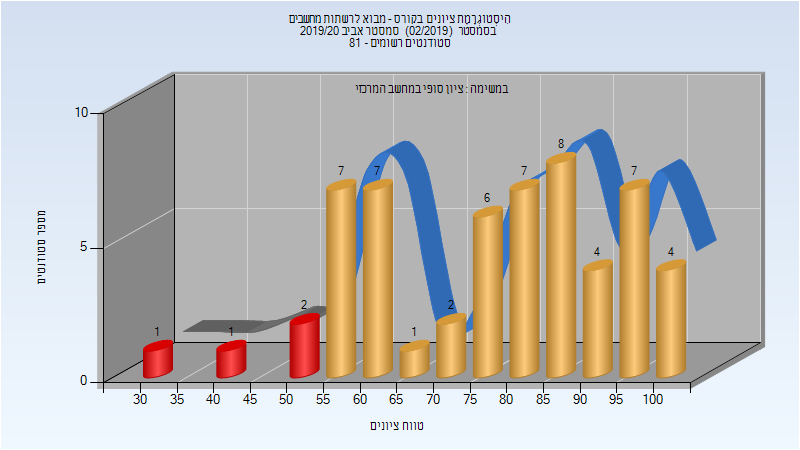
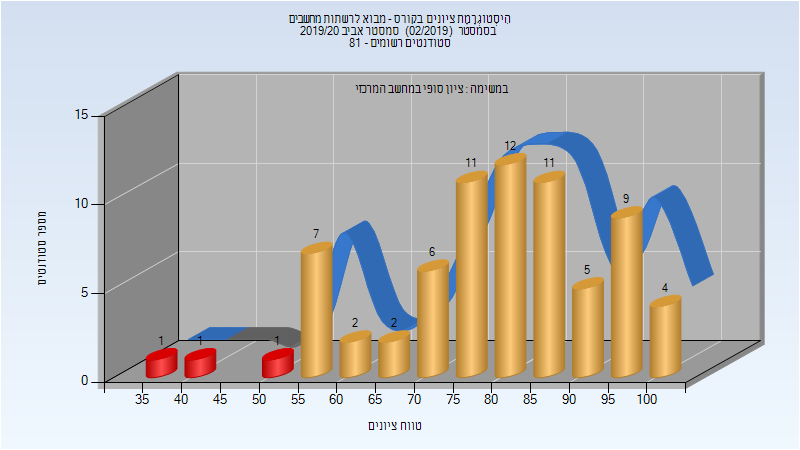
Deploy michael-maltsev/technion-histograms to github.com/michael-maltsev/technion-histograms.git:gh-pages

diff --git a/236343/index.html b/236343/index.html
@@ -299,13 +299,13 @@
 </thead>
 <tbody>
 <tr>
-<td>169</td>
-<td>128/41</td>
-<td>76</td>
-<td>6</td>
+<td>213</td>
+<td>178/35</td>
+<td>84</td>
+<td>32</td>
 <td>100</td>
-<td>71.593</td>
-<td>74</td>
+<td>71.152</td>
+<td>71</td>
 </tr>
 </tbody>
 </table>

diff --git a/236334/index.html b/236334/index.html
@@ -243,13 +243,13 @@
 </thead>
 <tbody>
 <tr>
-<td>57</td>
-<td>53/4</td>
-<td>93</td>
-<td>30</td>
+<td>72</td>
+<td>69/3</td>
+<td>96</td>
+<td>36</td>
 <td>100</td>
-<td>77.123</td>
-<td>80</td>
+<td>79.75</td>
+<td>82</td>
 </tr>
 </tbody>
 </table>

diff --git a/236343/README.md b/236343/README.md
@@ -98,5 +98,5 @@
 
 | סטודנטים | עברו/נכשלו | אחוז עוברים | ציון מינימלי | ציון מקסימלי | ממוצע | חציון |
 | ---- | ---- | ---- | ---- | ---- | ---- | ---- |
-| 169 | 128/41 | 76 | 6 | 100 | 71.593 | 74 |
+| 213 | 178/35 | 84 | 32 | 100 | 71.152 | 71 |
 

diff --git a/236334/README.md b/236334/README.md
@@ -78,5 +78,5 @@
 
 | סטודנטים | עברו/נכשלו | אחוז עוברים | ציון מינימלי | ציון מקסימלי | ממוצע | חציון |
 | ---- | ---- | ---- | ---- | ---- | ---- | ---- |
-| 57 | 53/4 | 93 | 30 | 100 | 77.123 | 80 |
+| 72 | 69/3 | 96 | 36 | 100 | 79.75 | 82 |
 
